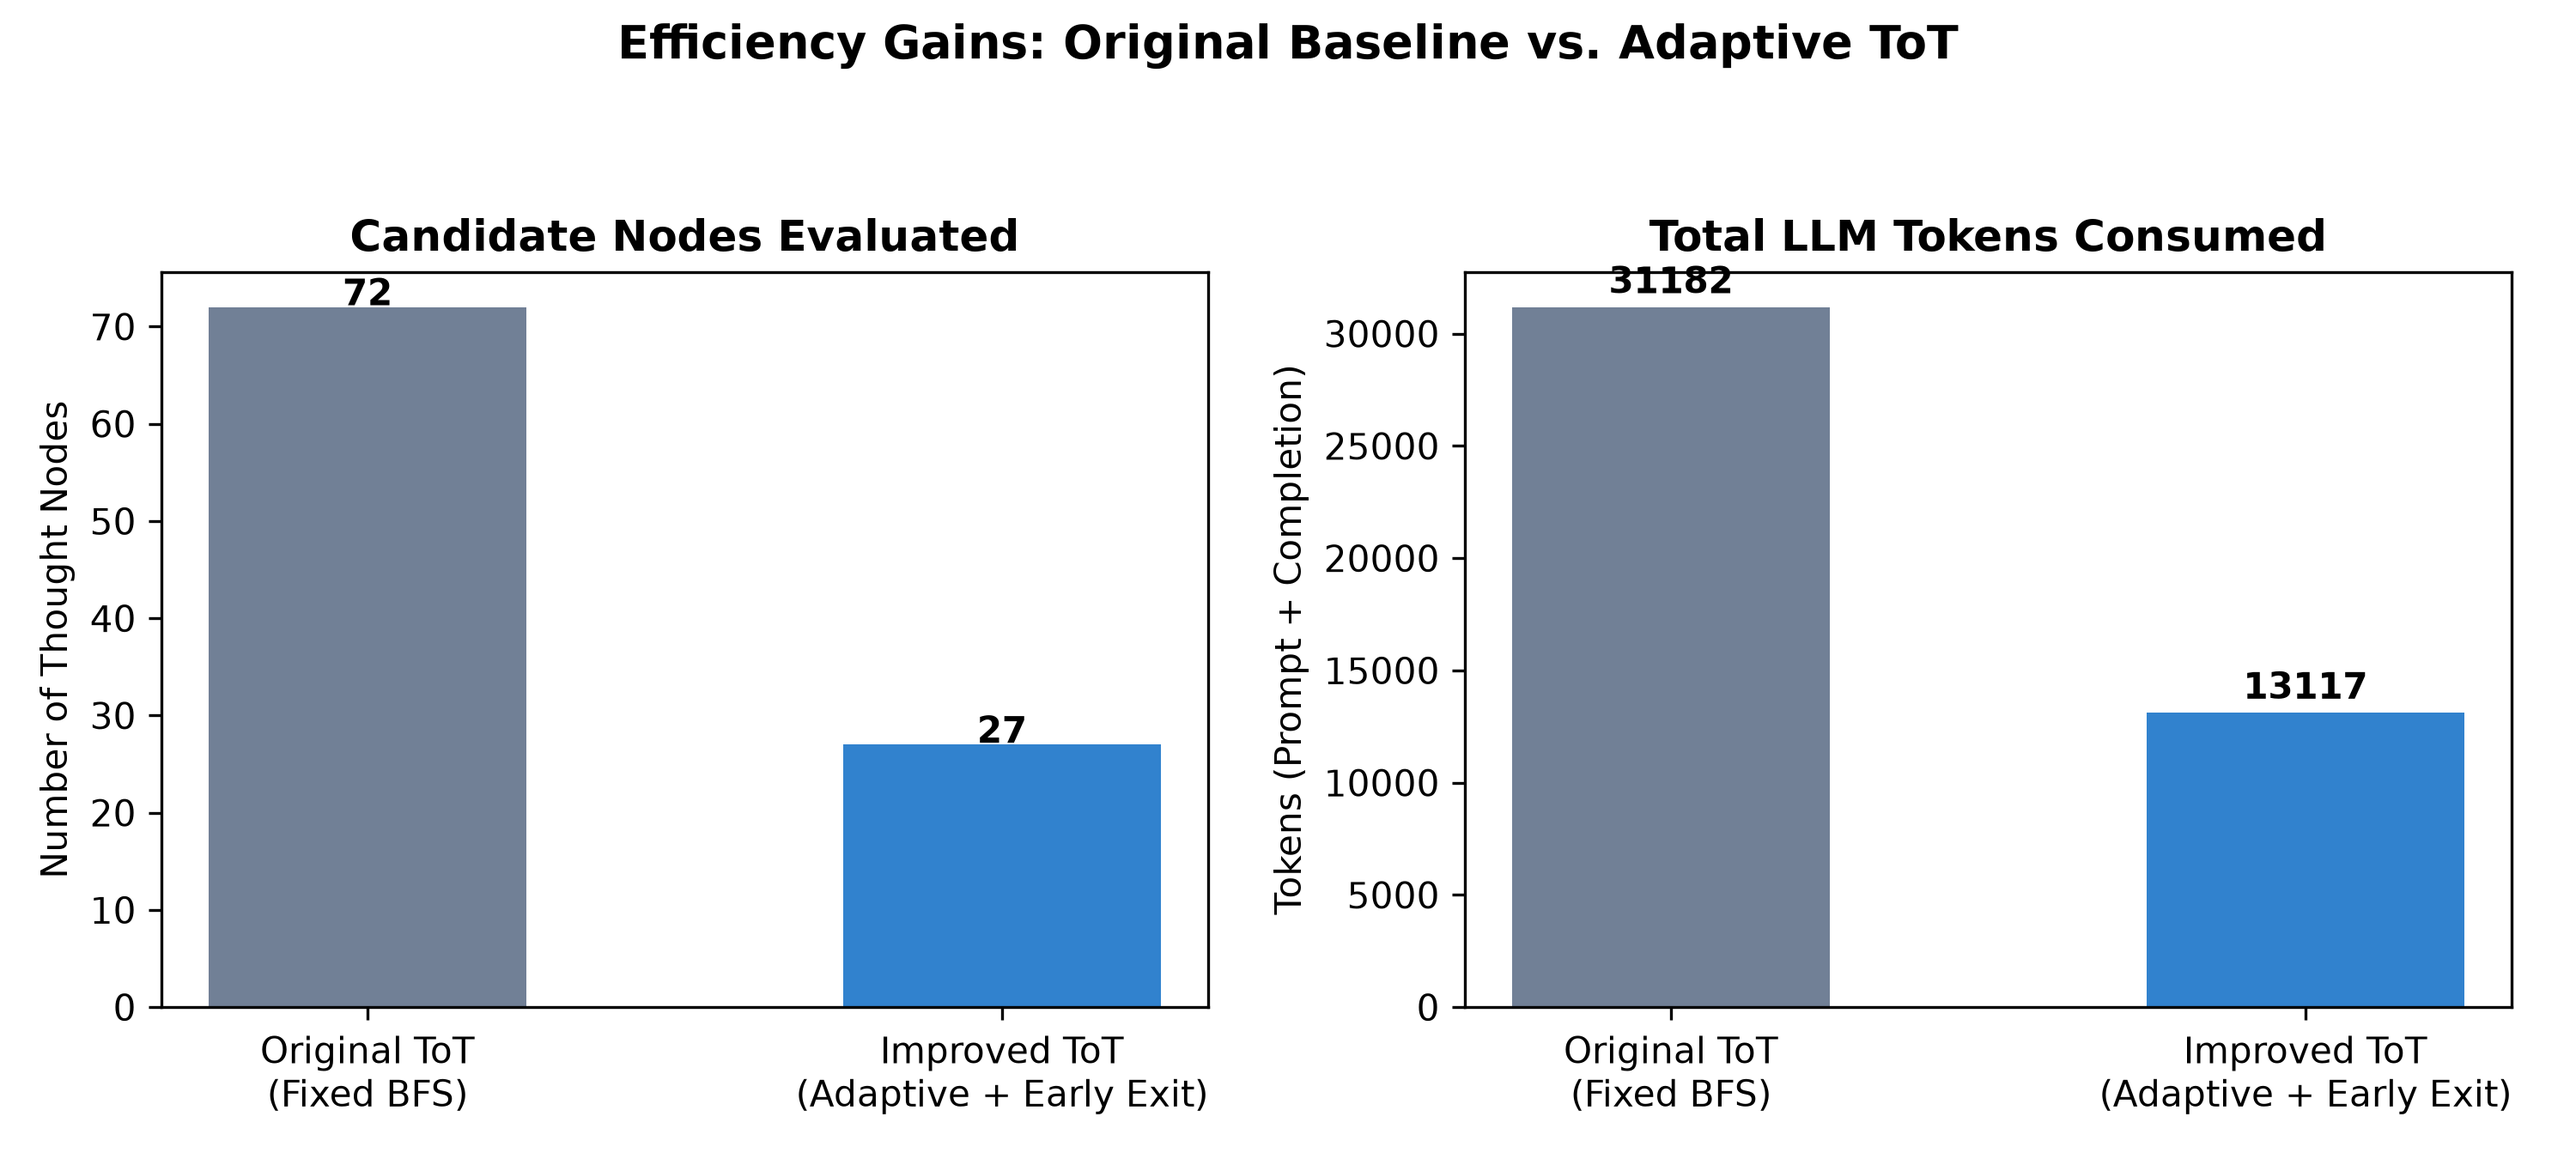
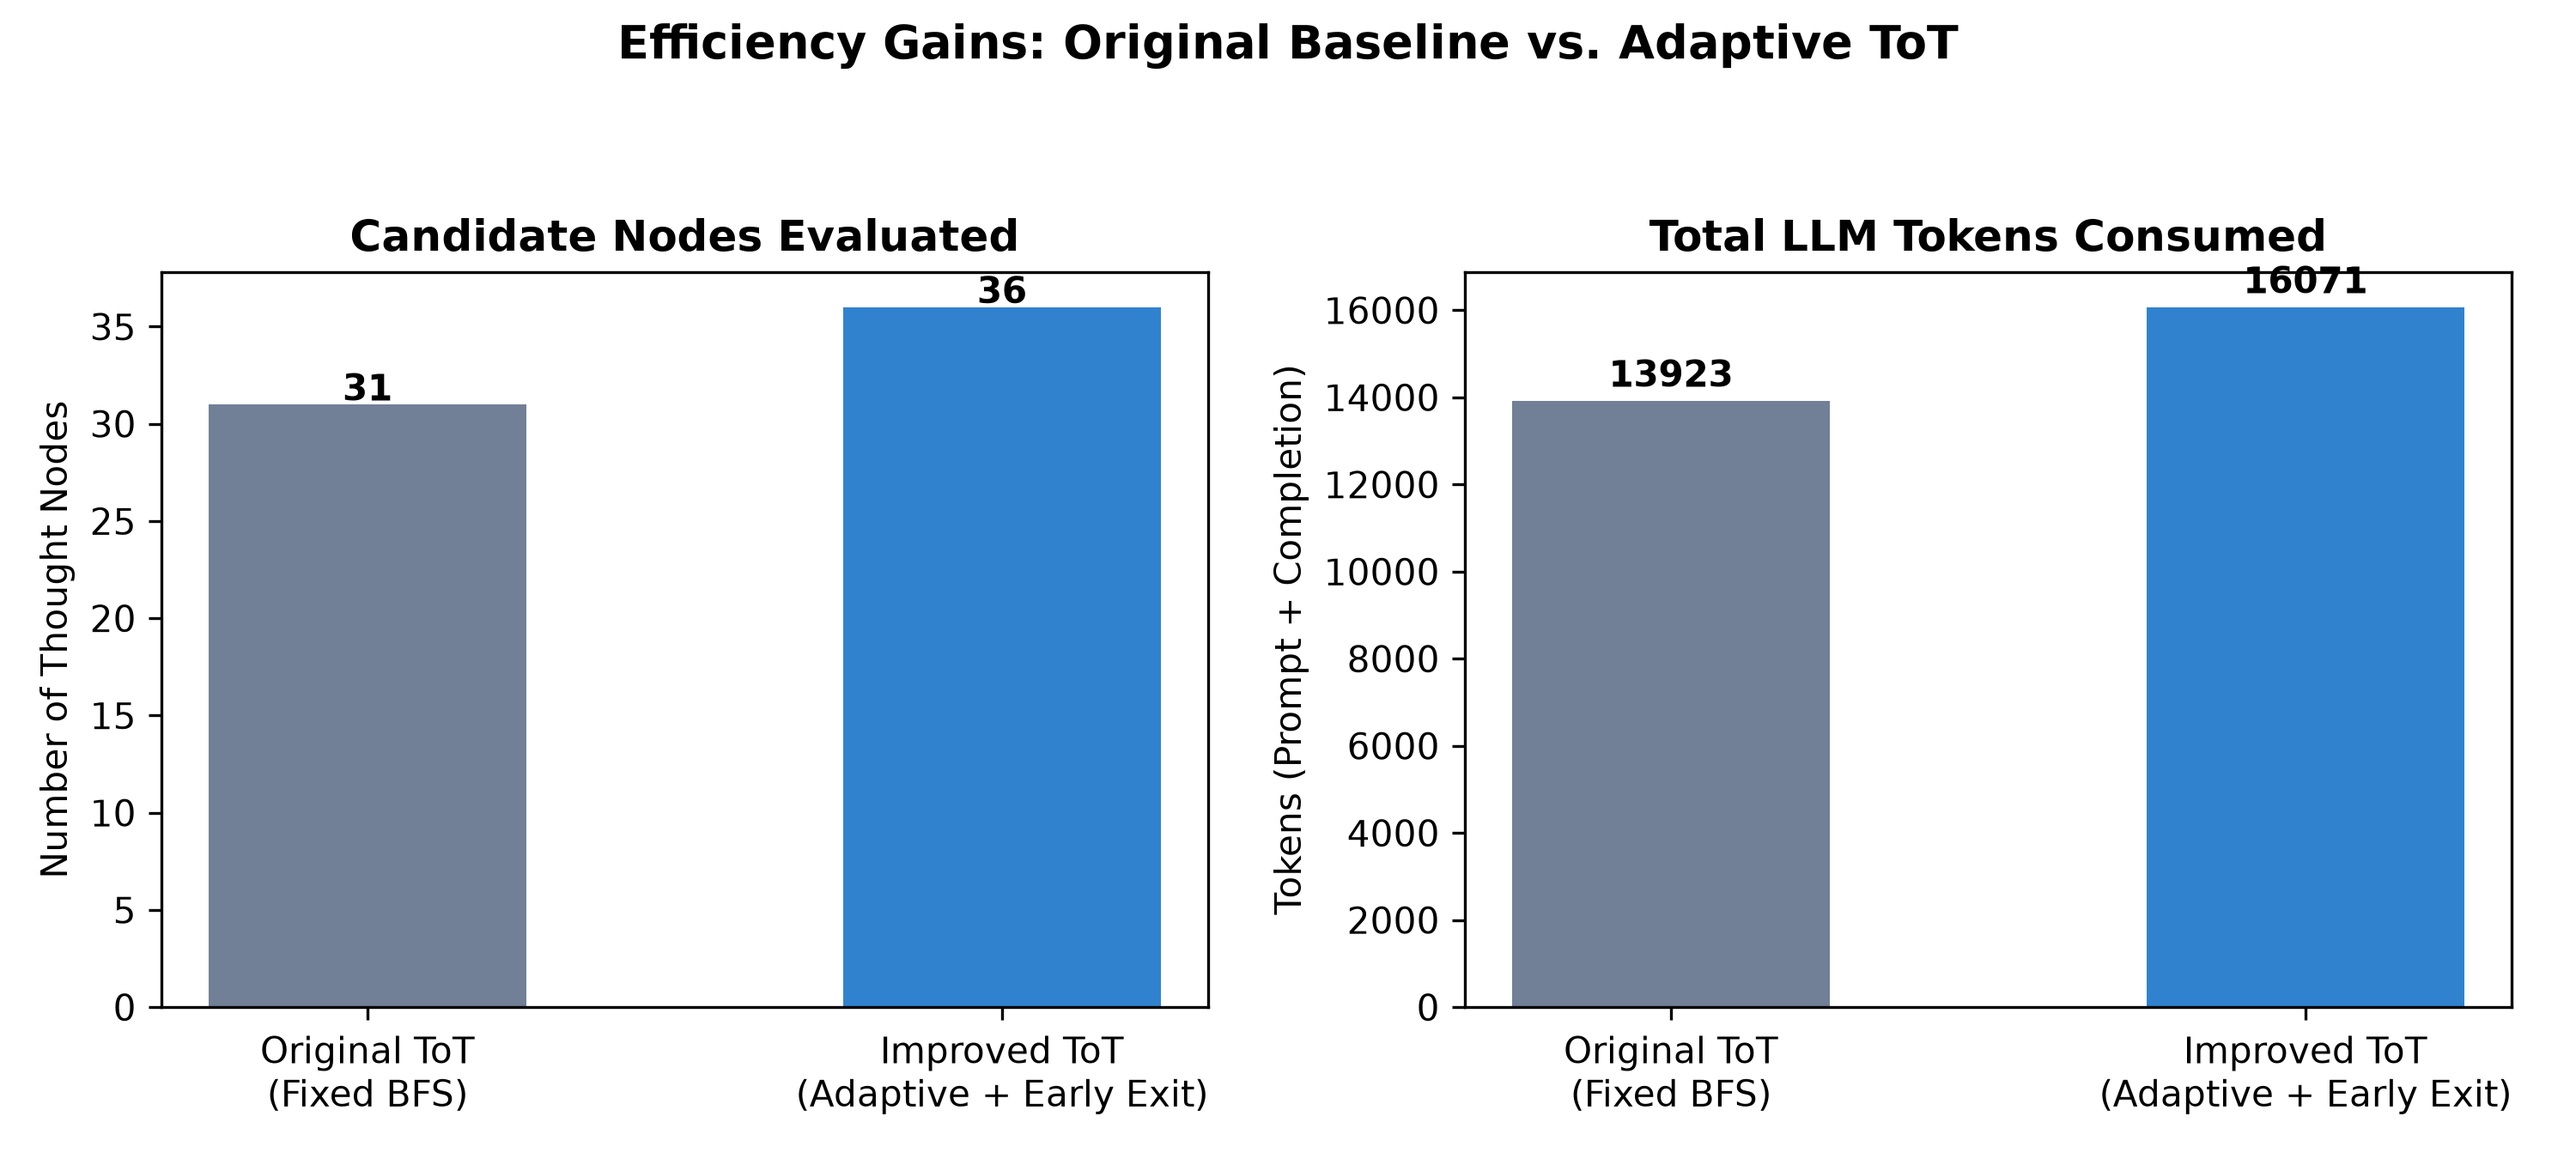
Update README links and package metadata

diff --git a/setup.py b/setup.py
@@ -5,16 +5,13 @@ with open('README.md', 'r', encoding='utf-8') as fh:
 
 
 setuptools.setup(
-    name='tree-of-thoughts-llm',
-    author='Shunyu Yao',
-    author_email='shunyuyao.cs@gmail.com',
-    description='Official Implementation of "Tree of Thoughts: Deliberate Problem Solving with Large Language Models"',
-    keywords='tree-search, large-language-models, llm, prompting, tree-of-thoughts',
-    long_description=long_description,
-    long_description_content_type='text/markdown',
-    url='https://github.com/princeton-nlp/tree-of-thought-llm',
+    name='adaptive-tree-of-thoughts',
+    author='Rohit Mitharwal',
+    author_email='rohitmitharwal19@gmail.com',
+    description='Adaptive Tree of Thoughts: Dynamic Beam Pruning and Early-Exit Verification for Token-Efficient LLM Reasoning',
+    url='https://github.com/rohitmitharwal19/adaptive-tree-of-thoughts',
     project_urls={
-        'Homepage': 'https://github.com/princeton-nlp/tree-of-thought-llm',
+        'Homepage': 'https://github.com/rohitmitharwal19/adaptive-tree-of-thoughts',
     },
     package_dir={'': 'src'},
     packages=setuptools.find_packages(where='src'),

diff --git a/README.md b/README.md
@@ -2,8 +2,9 @@
 
 **Dynamic Beam Pruning and Early-Exit Verification for Token-Efficient LLM Reasoning**
 
-[![Paper Reference](https://shields.io)](https://arxiv.org)
-[![Backend](https://shields.io)](#)
+ [![Python](https://img.shields.io/badge/python-3.9%2B-blue)](https://www.python.org)
+[![Backend](https://img.shields.io/badge/backend-Gemini%203.5%20Flash--Lite-orange)](https://ai.google.dev)
+[![Based on](https://img.shields.io/badge/based%20on-Tree%20of%20Thoughts-green)](https://arxiv.org/abs/2305.10601)
 
 This repository reproduces the official Princeton NLP **Tree of Thoughts (ToT)** framework and introduces **Adaptive-ToT**—an algorithmic extension designed to reduce redundant LLM API calls, token consumption, and latency on lightweight models.
 
@@ -37,7 +38,7 @@ This repository reproduces the official Princeton NLP **Tree of Thoughts (ToT)**
 
 ### 1. Environment Setup
 ```bash
-git clone https://github.com
+ git clone https://github.com/rohitmitharwal19/adaptive-tree-of-thoughts.git
 cd adaptive-tree-of-thoughts
 pip install -e . --no-deps
 pip install requests matplotlib numpy sympy
@@ -46,7 +47,7 @@ pip install requests matplotlib numpy sympy
 ### 2. Set Your Gemini API Key
 **Windows PowerShell:**
 ```powershell
-\$env:OPENAI_API_KEY="YOUR_GEMINI_API_KEY"
+$env:OPENAI_API_KEY="YOUR_GEMINI_API_KEY"
 ```
 
 ### 3. Run Original Baseline vs. Adaptive-ToT
